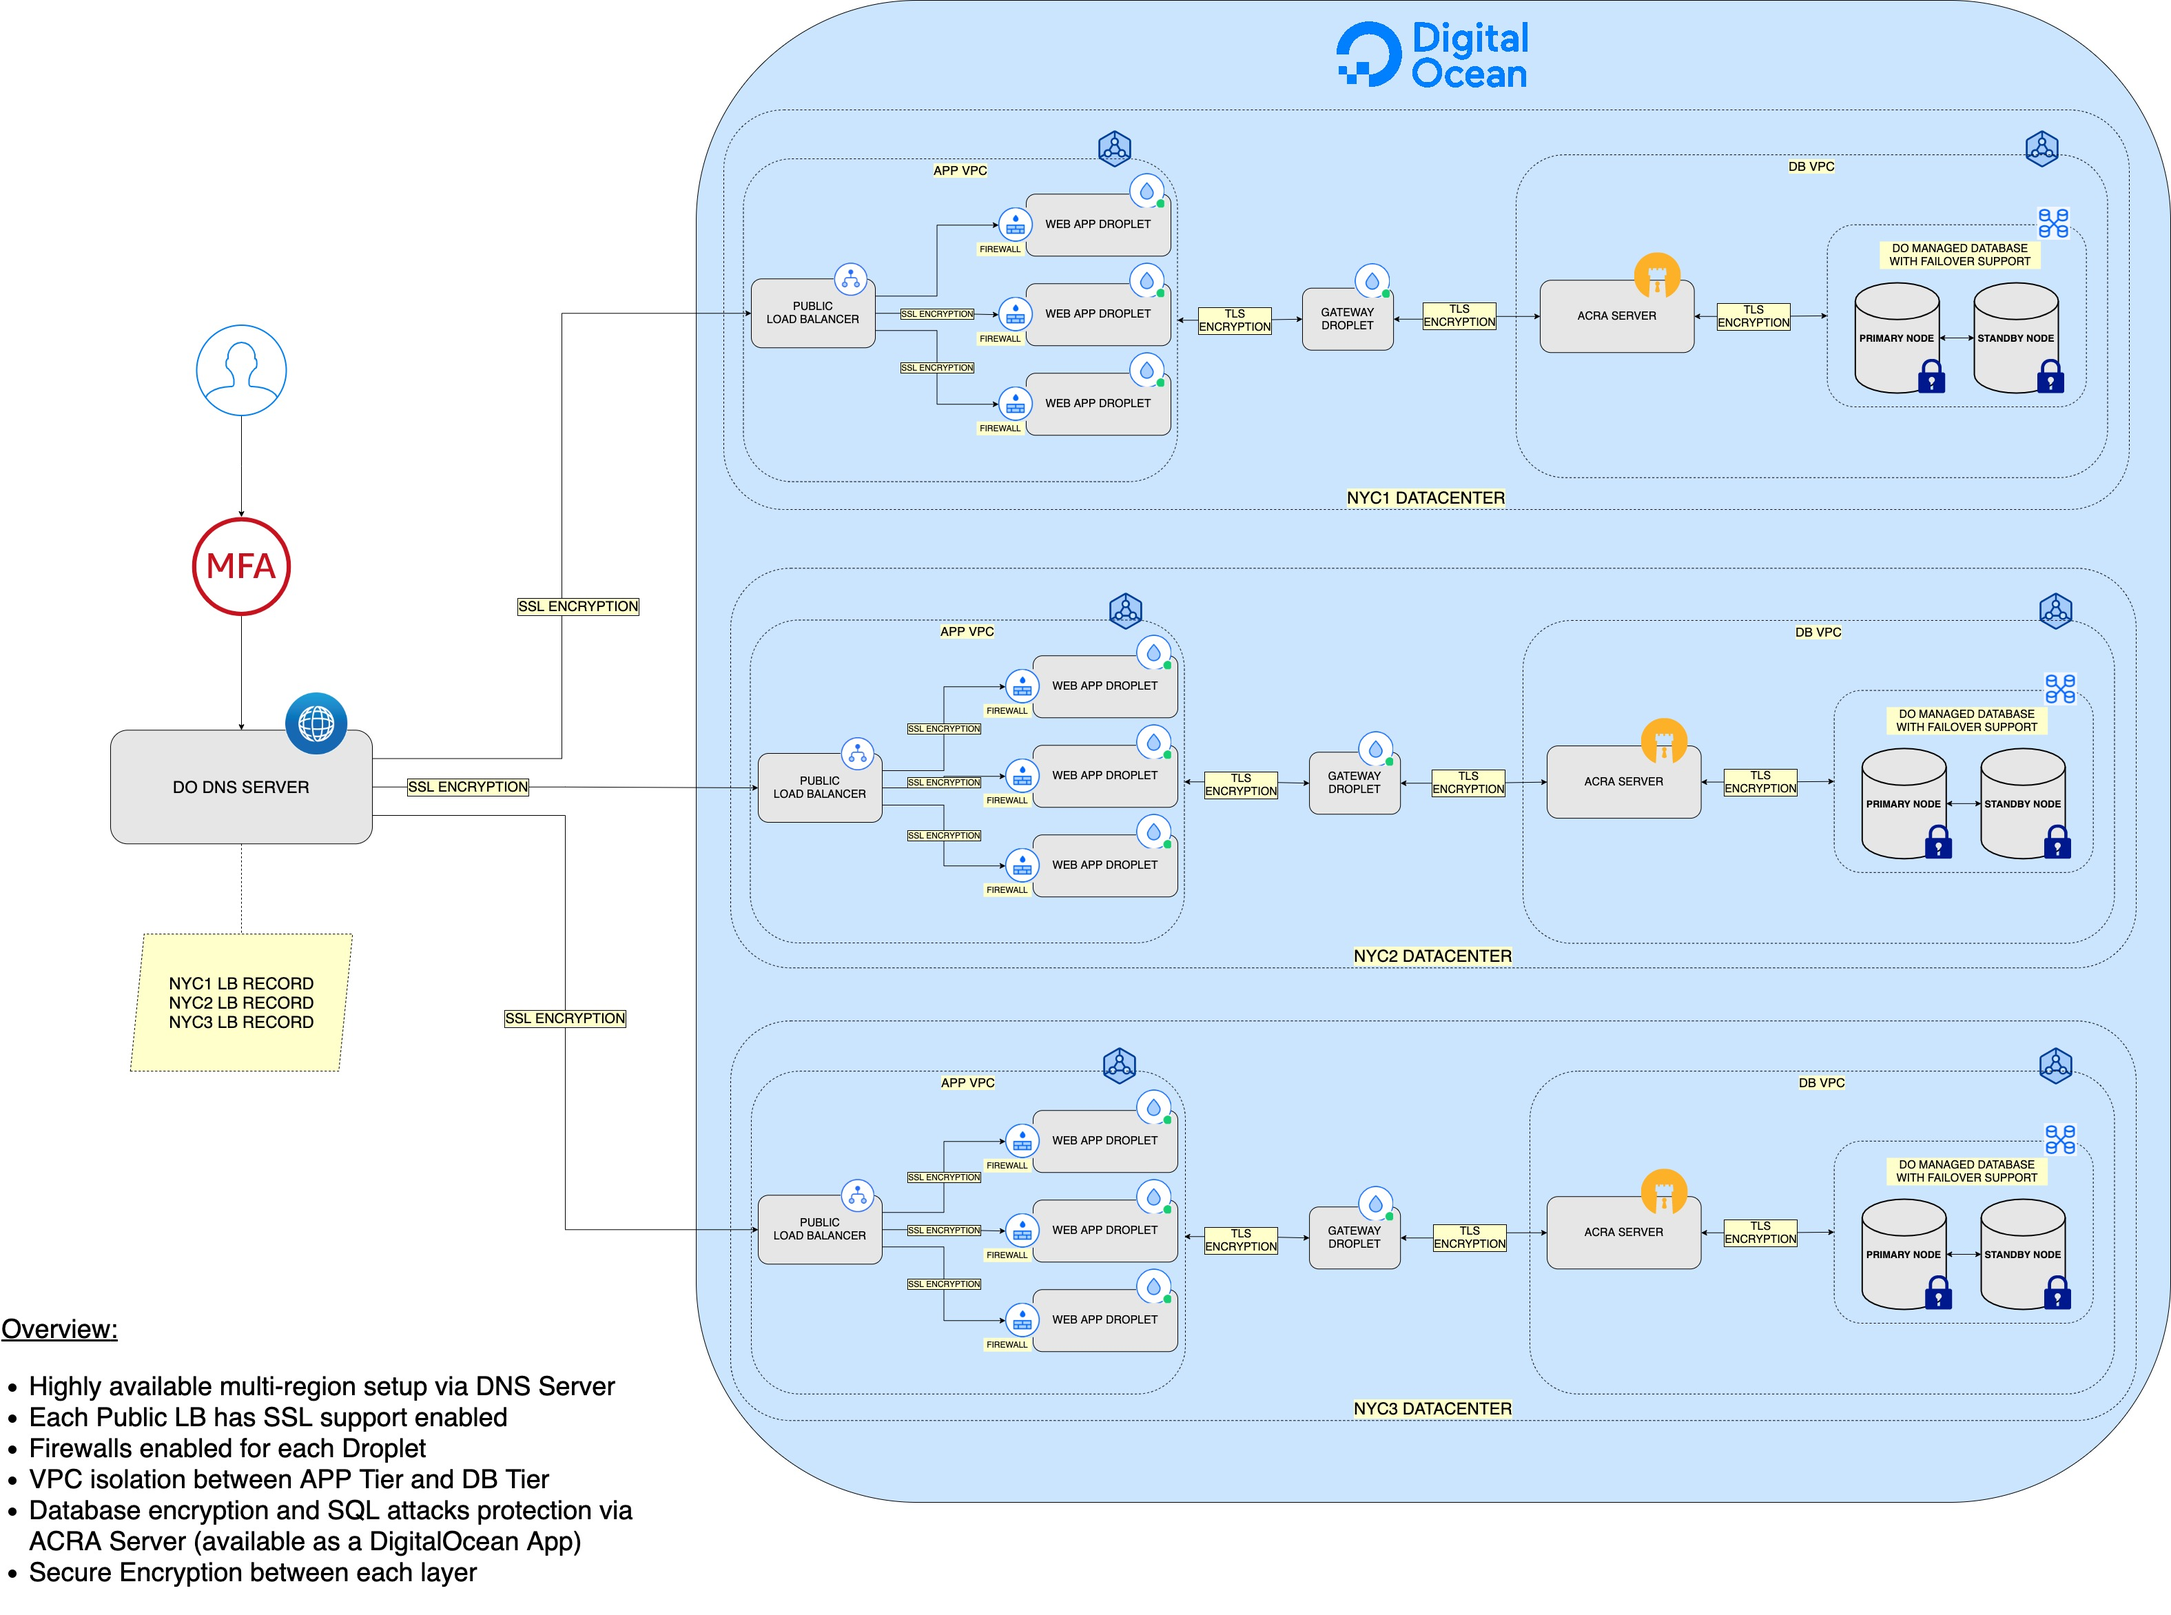
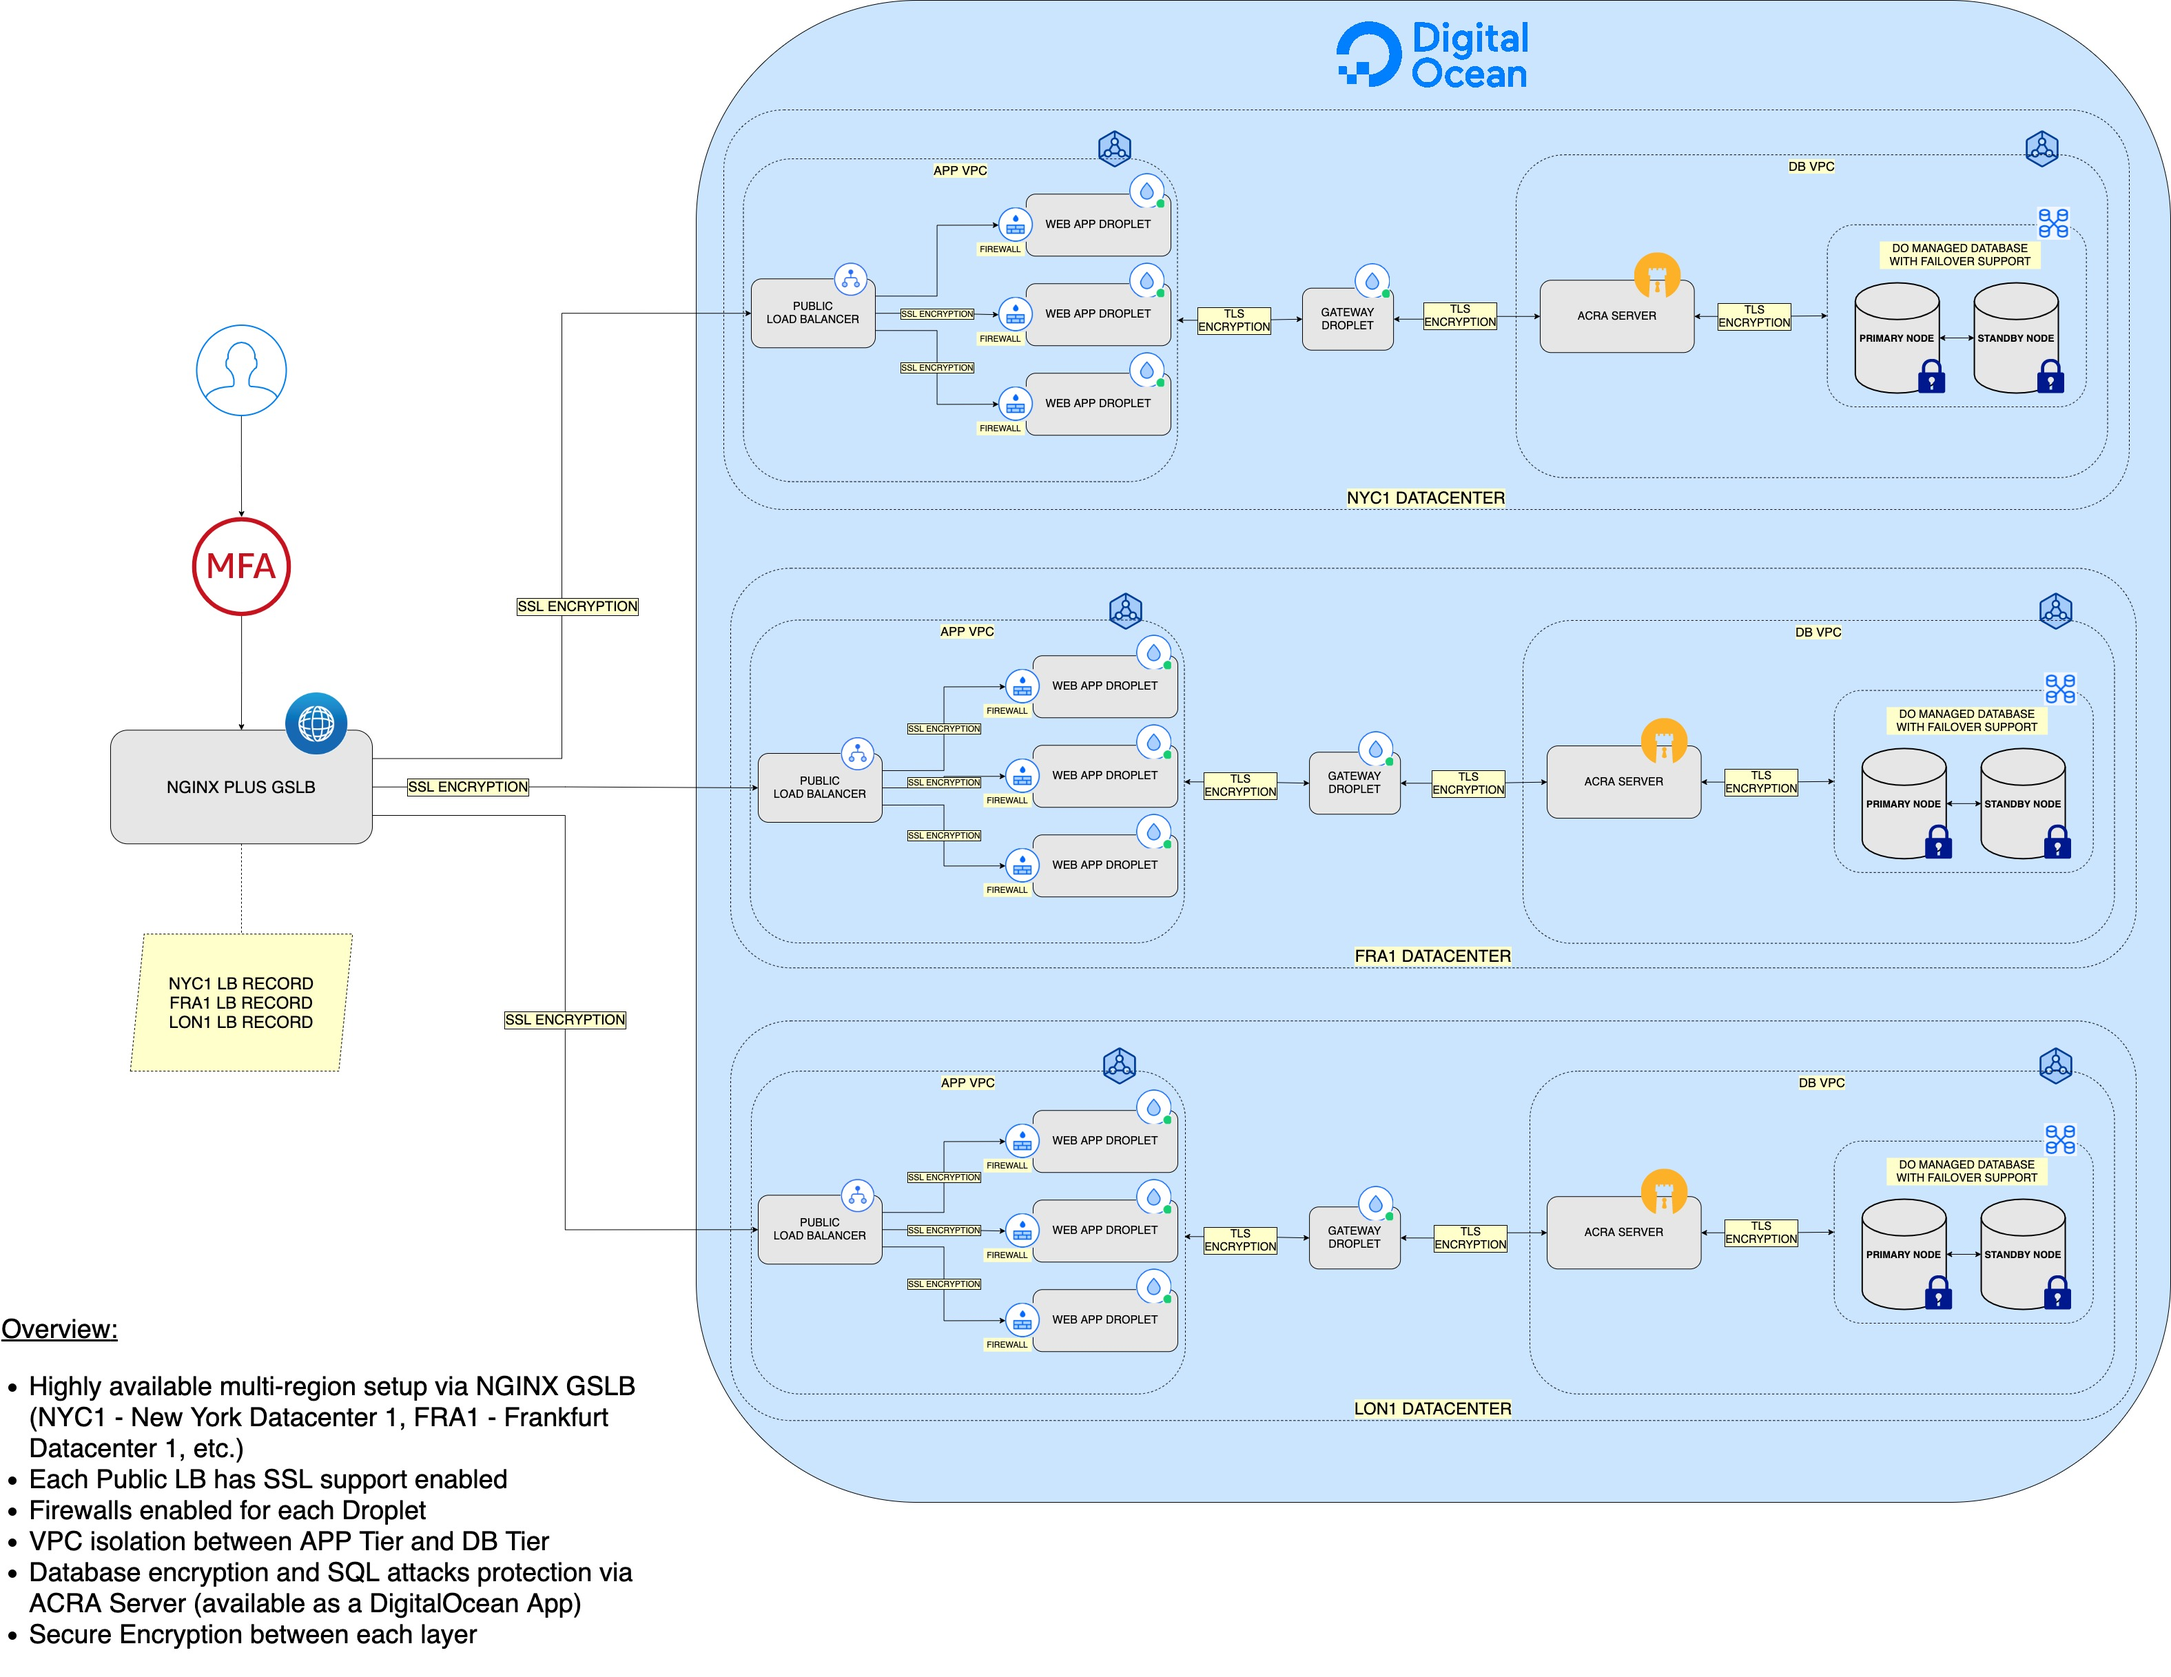
updates

diff --git a/do_hipaa/README.md b/do_hipaa/README.md
@@ -39,8 +39,8 @@ Nothing special here, just a plain old and classic architecture.
 
 **Pros:**
 
-1. `Highly available multi-region` setup via `DNS` Server (`DNS Server` is used as a `failover mechanism` between `Datacenters` from different `Regions`)
-2. Each `Public Load Balancer` has `SSL` support enabled
+1. `Highly available multi-region` setup via `Global Server Load Balancing` (GLSB) (`GLSB` is used as a `failover mechanism` between `Datacenters` from different `Regions`, as well as routing traffic to the closest region for the user). [NGINX Plus](https://www.nginx.com/resources/glossary/global-server-load-balancing/) or [Akamai GTM](https://www.akamai.com/products/global-traffic-management) can be used.
+2. Each `Public Load Balancer` has `SSL` passthrough and termination enabled
 3. `Firewalls` enabled and set up for each `Droplet` (DigitalOcean VM's that run Linux OS)
 4. `VPC isolation` between the `Application` Tier and `Database` Tier
 5. `Database encryption` and `SQL attacks` protection via `ACRA` Server (available as a `DigitalOcean App`)
@@ -51,10 +51,11 @@ Nothing special here, just a plain old and classic architecture.
 
 1. `DigitalOcean` doesn't provide an `Auto Scaler` for their VM's (called `Droplets`). It's available if the `App Platform` is used, but it's kind of limited in functionality. For more details please visit the [App Platform Overview](https://docs.digitalocean.com/products/app-platform) and [App Platform Limitations](https://docs.digitalocean.com/products/app-platform/#limits).
 2. Because of the above, the architecture presented in the first draft is kind of `rigid` in terms of `resource usage` and `costs`. It means that no matter if the `load` on the system is `high` or `low`, a `fixed number` of VM's still `run in the background` and maybe doing almost `nothing`.
+3. `Identity and Access Management` (IAM) is another feature that's not currently supported on `DigitalOcean` to allow for `fine` control of `who` has access on `what`.
    
 In terms of security and for the sake of simplicity a `VPN setup` was not added, but `OpenVPN` can be added and it's available as a `DigitalOcean App`. `DigitalOcean App` platform let's you easily install and configure `one-click apps` from a `trusted` marketplace. 
 
-`Auditing` tools or `CVE` scanners for the underlying Linux OS distributions which `Droplets` use or other software components, were ommited for simplicity as well (this doesn't mean that options and support is not available).
+`Auditing` tools or `CVE` scanners for the underlying `Linux OS` distributions which `Droplets` use or other software components, were ommited for simplicity as well (this doesn't mean that options and support is not available).
 
 
 ## HIPAA Architecture 2nd Draft
@@ -63,4 +64,20 @@ A more robust and efficient setup to use is one based on `Kubernetes`. This over
 
 `Kubernetes` is widely known for its `HA` features, `reliability`, `security` and `ease` of configuration. Not to mention the big `support` available from the `community` and ready to use `tools`.
 
-To be continued ...
+Most notable features:
+
+* `Role Based Access Control` (RBAC) for fine control of `who` has access on `what`
+* `Rolling Deployments` strategy for `zero` application `downtime` during upgrades
+* `Easy` and `automatic` application `scale up/down` based on the load and needs
+* `Efficient` and `secure` application `packaging` and `distribution` via the `Docker` Container Runtime Interface (CRI) support
+* Setting up Docker registries with `vulnerability` scan support to prevent security flaws from early stages of development
+
+What DigitalOcean offers in terms of Kubernetes support:
+
+* Easy `Kubernetes` cluster deployment and management via [DOKS](https://www.digitalocean.com/products/kubernetes) so you don't need to worry about the `Control Plane` or any other internal stuff for having a `Kubernetes` cluster up and running. All is managed by `DigitalOcean`, you only need to focus on application development and deployment, not the internals of Kubernetes.
+* `Multi-region` support was added recently so you can have `High Availabilty` for `DOKS` as well, spanning across `multiple datacenters`
+* Each `worker node` comes with `Cloud Firewall` support and it's enabled by default
+* `Block Storage` support for `Kubernetes Persistent Volumes`
+* `Load Balancer` support
+
+More information about [DigitalOcean Managed Kubernetes](https://docs.digitalocean.com/products/kubernetes/) and [security](https://docs.digitalocean.com/products/kubernetes/resources/security/) can be found on the official documentation page.
